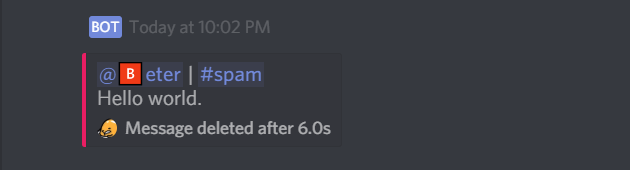
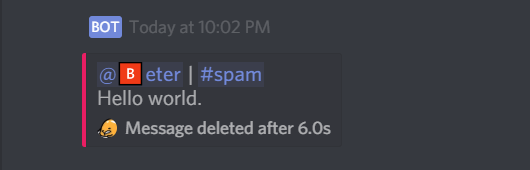
Resize pictures

Changed region(s): [[0.1208, 0.3235, 0.634, 0.8529], [0.1208, 0.0882, 0.5132, 0.2353]]

diff --git a/README.md b/README.md
@@ -24,7 +24,7 @@ This bot logs: message edits, message deletions, username changes, and when a me
 
 1. Adapt and follow the steps found in [create-discord-bot](https://github.com/peterthehan/create-discord-bot).
 
-2. Open [src/config.js](https://github.com/peterthehan/discord-audit-log-bot/blob/master/src/config.js) and add your own :
+2. Open [src/config.js](https://github.com/peterthehan/discord-audit-log-bot/blob/master/src/config.js) and add your own settings:
 
 ```js
 editColor: 15105570,
